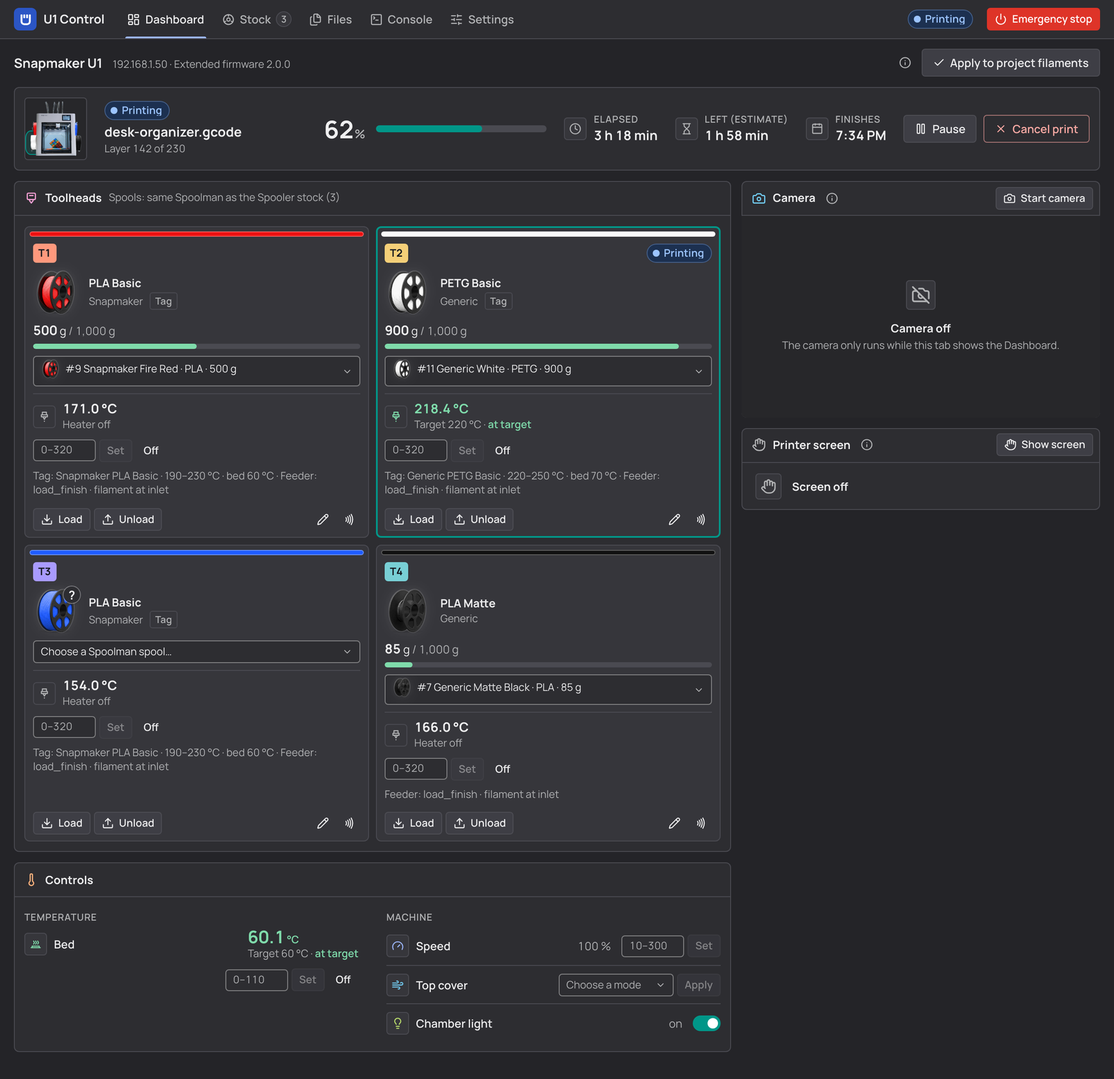
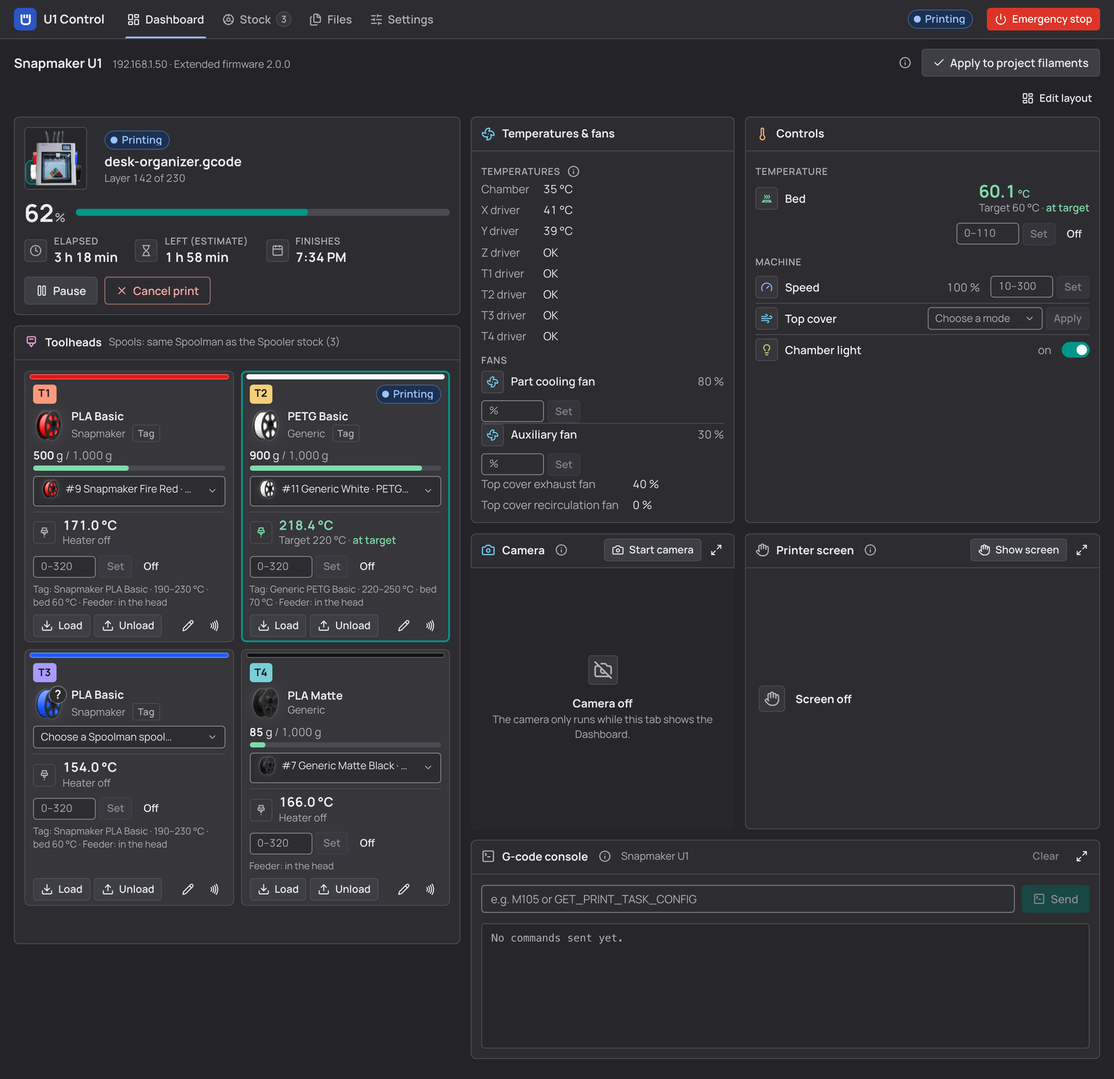
docs: refresh Orca Cloud listing and images, English only
Re-render the listing, README and social images from the current UI. The
dashboard pictures now show the Dashboard in its default layout instead of
a rearranged one. Only English images are exported from now on; the
Portuguese ones README.pt-BR.md shows stay as they are, and the unused
Portuguese main, square and social images are removed.

The Orca Cloud description is one English block that links to the README
for the full description, and release.md lists the English slots.

diff --git a/scripts/render_images.py b/scripts/render_images.py
@@ -9,7 +9,7 @@ What it does
   * Marketing artwork (assets/marketing/source/*.png, the native originals): scales each image to its listing
     size, finds the empty screenshot square from the pixels, renders the matching screen at exactly that size
     and pastes it inside the square's frame with the same rounded corners. Nothing else in the image changes.
-  * README screenshots: the dashboard and the print setup window, light and dark, English and Portuguese.
+  * README screenshots: the dashboard and the print setup window, light and dark, in English.
   * Writes assets/marketing/asset-manifest.json: every export with its source, operation, size, bytes and date.
   * Inlines Spooler's full-colour icon (../spooler/assets/spooler-icon.svg) into the Spooler integration
     SVGs and re-exports their PNGs. The other SVG diagrams are never changed.
@@ -66,23 +66,18 @@ SCROLL_TO = ('document.querySelector("main").style.paddingBottom="600px";'   # t
              'scrollTo(0,Math.round(scrollY));')
 CAMERA_ON = ('document.querySelector(\'[data-test="camera"]\').click();'      # start the camera, answer with the mock picture
              'setTimeout(()=>emit({type:"frame",image:DATA.frame}),50);setTimeout(()=>{%s},150);')
-# The camera above the controls, which keep their temperatures only: the whole picture and the whole panel fit the square.
-CAMERA_FIRST = ('const ctl=document.querySelector("#bed-h").closest(".oui-panel");ctl.before(document.querySelector("#cam-h").closest(".oui-panel"));'
-                'ctl.querySelectorAll(".oui-controls-group:not(:first-child)").forEach(e=>e.remove());'
-                'document.querySelector("#scr-h").closest(".oui-panel").remove();')
+# Then down just far enough that the whole camera picture is in view: in the default layout it sits under the fold.
+CAMERA_IN_VIEW = ('const r=document.querySelector("img.oui-camera-picture")?.getBoundingClientRect();'
+                  'if(r&&r.bottom>innerHeight-12)scrollTo(0,Math.round(scrollY+r.bottom-innerHeight+12));')
 # Nothing after the toolheads: the panel that follows would show its title and little else.
 HEADS_LAST = ('const hp=document.querySelector("#heads-h").closest(".oui-panel");document.querySelectorAll("main .oui-panel").forEach(p=>{'
               'if(hp.compareDocumentPosition(p)&Node.DOCUMENT_POSITION_FOLLOWING&&!hp.contains(p))p.remove();});')
 # The toolhead cards without their heater row, feeder line and buttons: the spools are what they show here.
 COMPACT_HEADS = 'document.querySelectorAll(".hc .oui-slot-extra>[data-heater-row],.hc .oui-slot-extra>p.oui-meta,.hc .oui-slot-actions").forEach(e=>e.remove());'
-# The main and hero images: the print card without the printer photo or its buttons, the four toolheads and their spools right under it
-# (without their spool pickers too, so both rows fit).
-REELS_UNDER_JOB = ('const job=document.querySelector(\'[data-test="job-card"]\');job.querySelectorAll(".oui-job-thumb,.oui-job-actions").forEach(e=>e.remove());job.querySelector(".oui-job-block")?.removeAttribute("data-thumb");'
-                   'job.after(document.querySelector("#heads-h").closest(".oui-panel"));' + COMPACT_HEADS
-                   + 'document.querySelectorAll(".hc .hc-pick").forEach(e=>e.remove());')
 SCREENS = {
-    "dash": dict(page="app", section="dash", width=640, spools=True, js=REELS_UNDER_JOB),
-    "camera": dict(page="app", section="dash", width=640, js=CAMERA_ON % (CAMERA_FIRST + SCROLL_TO % "#cam-h")),
+    # the Dashboard in its default layout, as it comes (two columns from GRID_WIDTH, else one in reading order)
+    "dash": dict(page="app", section="dash", width=640, spools=True),
+    "camera": dict(page="app", section="dash", width=640, spools=True, js=CAMERA_ON % CAMERA_IN_VIEW),
     "heads": dict(page="app", section="dash", width=640, spools=True, js=HEADS_LAST + SCROLL_TO % "#heads-h" + COMPACT_HEADS),   # all four fit the square
     "files": dict(page="app", section="files", width=880),
     "setup": dict(page="setup", width=900),                  # the window's own width: four filaments in one row, options and buttons under them
@@ -94,6 +89,7 @@ LANDSCAPE = (1600, 900)
 # Layout width in CSS px of the app page inside a marketing image: wide enough for the whole header line
 # ("Snapmaker U1 · 192.168.1.50 · Extended firmware 2.0.0"), narrow enough to keep the two-row header.
 CSS_WIDTHS = {"en": 740, "pt-BR": 760}      # wide squares: room for the whole firmware line in the header
+GRID_WIDTH = 1040                           # the landscape images: wide enough for the Dashboard's two columns (from 1000)
 CSS_WIDTH_SOCIAL = 760                      # the small square: wide layout too, so the header line fits and no button wraps
 FILES_WIDTH_PT = 960                        # the Files tab in Portuguese: its longer tab names need a wider one-row app bar
 USES = {"tile": "store tile and plugin table icon", "square": "Orca Cloud square image", "social": "GitHub social preview",
@@ -163,7 +159,11 @@ def printer_status(fakes, u1, tags=False):
         for i, (cur, tgt) in enumerate(((171, 0), (218.4, 220), (154, 0), (166, 0))):
             s[u1.EXTRUDERS[i]] = {"temperature": cur, "target": tgt}
         s["heater_bed"] = {"temperature": 60.1, "target": 60}
-        s["purifier"] = {"power_detected": True, "mode": "weak"}
+        s["purifier"] = {"power_detected": True, "mode": "weak", "exhaust_fan": {"speed": 0.4}, "inner_fan": {"speed": 0.0}}
+        s["fan"], s["fan_generic cavity_fan"] = {"speed": 0.8}, {"speed": 0.3}
+        s["temperature_sensor cavity"] = {"temperature": 34.6}
+        for name, obj in u1.DRIVERS:   # TMC2240 (X, Y) read their own temperature
+            s[obj] = {"drv_status": {}, **({"temperature": 41.0 if name == "X" else 39.0} if "2240" in obj else {})}
         s["filament_feed left"] = {"extruder0": {"channel_state": "load_finish", "filament_detected": True},
                                    "extruder1": {"channel_state": "load_finish", "filament_detected": True}}
         s["filament_feed right"] = {"extruder2": {"channel_state": "load_finish", "filament_detected": True},
@@ -196,6 +196,8 @@ def app_data(fakes, mods, scenario):
     finally:
         fp.close()
     view["bindings"] = {"0": 9, "1": 11, "3": 7} if scenario.get("spools") else {}
+    view["estimated_time"] = 18720   # the slicer's estimate of desk-organizer.gcode (FILES), read by the plugin from its metadata
+    view["left"] = u1.time_left(view)
     cfg = {**st.CONNECTION, **st.automagic_values(), "mode": "automagic", "host": "192.168.1.50",
            "spoolman_url": "http://192.168.1.10:7912", "spooler_hint_dismissed": False,
            "rfid_auto_sync": True, "prefs": {}, "printed_before": True}
@@ -436,7 +438,9 @@ def css_width_for(rel, screen, lang):
         return FILES_WIDTH_PT          # the one-row app bar cuts "Ajustes" and "Imprimindo" short below this
     if screen not in ("dash", "camera"):   # the setup window, toolheads and files keep their own layout widths
         return None
-    return CSS_WIDTH_SOCIAL if rel.startswith("social/") else CSS_WIDTHS[lang]
+    if rel.startswith("social/"):
+        return CSS_WIDTH_SOCIAL
+    return CSS_WIDTHS[lang] if "square" in rel else GRID_WIDTH
 
 
 def export_artwork(env, src):
@@ -466,7 +470,7 @@ def write_manifest(entries):
     """One record per export; a partial run keeps the records of the files it did not redo."""
     path = OUT / "marketing" / "asset-manifest.json"
     old = json.loads(path.read_text(encoding="utf-8"))["exports"] if path.exists() else []
-    merged = {e["file"]: e for e in old}
+    merged = {e["file"]: e for e in old if (ROOT / e["file"]).exists()}   # a file since deleted loses its record
     merged.update((e["file"], e) for e in entries)
     sources = [{"file": "assets/marketing/source/" + p.name, "bytes": p.stat().st_size, "sha256": hashlib.sha256(p.read_bytes()).hexdigest()}
                for p in sorted(SOURCE.glob("*.png"))]
@@ -534,9 +538,10 @@ def main(argv):
         name = "integration/u1control-works-with-spooler-" + theme
         if want and pick(name):
             export_integration(name)
-    sources = [p for p in sorted(SOURCE.glob("*.png")) if pick(artwork(p)[0])]
-    plain = [(n, s, v, theme, lang) for n, s, v in PLAIN for theme in ("light", "dark") for lang in ("en", "pt-BR")
-             if pick("readme/u1control-screenshot-%s-%s-%s.png" % (n, theme, lang))]
+    # English only: the Portuguese images are no longer exported (README.pt-BR.md keeps the last ones made)
+    sources = [p for p in sorted(SOURCE.glob("*.png")) if not p.stem.endswith("pt-BR") and pick(artwork(p)[0])]
+    plain = [(n, s, v, theme, "en") for n, s, v in PLAIN for theme in ("light", "dark")
+             if pick("readme/u1control-screenshot-%s-%s-en.png" % (n, theme))]
     if not sources and not plain:
         return
     with tempfile.TemporaryDirectory() as tmp:

diff --git a/docs/orca-cloud-description.md b/docs/orca-cloud-description.md
@@ -1,127 +1,49 @@
 # Orca Cloud description
 
-The text of the [U1 Control listing](https://cloud.orcaslicer.com/p/55b8c347d443). Paste the English block into the English description and the Portuguese block into the Portuguese one. Each block stays under Orca Cloud's 4000 characters. The images it embeds are served from `main`, so they show once this file's commit is merged. The listing's own images (tile, main, gallery) are in [release.md](release.md#orca-cloud-listing). Keep the plugin list in step with the README's "More plugins by bloodf" table.
-
-## English
+The text of the [U1 Control listing](https://cloud.orcaslicer.com/p/55b8c347d443), in English only: paste the block into the listing's description. It stays well under Orca Cloud's 4000 characters and links to the README for everything else. The images it embeds are served from `main`, so they show once this file's commit is merged. The listing's own images (tile, main, gallery) are in [release.md](release.md#orca-cloud-listing). Keep the plugin list in step with the README's "More plugins by bloodf" table.
 
 ```markdown
 Run the Snapmaker U1 from OrcaSlicer: toolheads, camera, files.
 
-## What you need
-
-- OrcaSlicer 2.5.0 or newer
-- A Snapmaker U1 on the same network, with the stock firmware or the U1 Extended Firmware
-- Spoolman, only if you want a spool per toolhead
+Full description: https://github.com/bloodf/u1control/blob/main/README.md
 
 ## What it does
 
-When you press **Print**, each filament is matched to one of the four toolheads and the U1 G-code is fixed, the way Snapmaker Orca does.
-
 ![The U1 print setup window: four filaments matched to the toolheads T1 to T4](https://raw.githubusercontent.com/bloodf/u1control/main/assets/orca-cloud/u1control-feature-01-setup-en.png){align=center}
 
-The Dashboard shows status, temperatures and the camera, with pause, resume, cancel and emergency stop.
+**Print setup.** On Print, each filament is matched to a toolhead and the U1 G-code is fixed, as Snapmaker Orca does. A nozzle mismatch (Standard vs High Flow) is a warning you confirm.
 
-![The Dashboard: bed temperature, speed, top cover, chamber light and the camera picture](https://raw.githubusercontent.com/bloodf/u1control/main/assets/orca-cloud/u1control-feature-02-dashboard-en.png){align=center}
+![The Dashboard in its default layout: the print, the toolheads, temperatures, controls, camera and printer screen](https://raw.githubusercontent.com/bloodf/u1control/main/assets/orca-cloud/u1control-feature-02-dashboard-en.png){align=center}
 
-Each toolhead shows its filament, its RFID tag and its Spoolman spool with the grams left.
+**Dashboard.** Print, temperatures, fans, controls, camera, printer screen and console, in a layout you can rearrange. Bed, nozzle, fans and Home also work from OrcaSlicer's Device tab.
 
-![Toolheads T1 and T2 with filament, RFID tag and Spoolman spool](https://raw.githubusercontent.com/bloodf/u1control/main/assets/orca-cloud/u1control-feature-03-filament-en.png){align=center}
+![The toolheads T1 to T4 with filament, RFID tag, Spoolman spool and grams left](https://raw.githubusercontent.com/bloodf/u1control/main/assets/orca-cloud/u1control-feature-03-filament-en.png){align=center}
 
-Files on the printer can be printed, renamed, moved and deleted, and time-lapse videos saved to your computer.
+**Toolheads and spools.** Filament, RFID tag, Spoolman spool, the preset each head gets (change it if you like) and pressure advance saved per spool. Open Filament Database presets are opt-in.
 
 ![The Files page: folders, print files and the time-lapse list](https://raw.githubusercontent.com/bloodf/u1control/main/assets/orca-cloud/u1control-feature-04-files-en.png){align=center}
 
-Automagic mode runs every step it can by itself and asks only when a choice is needed. Expert mode turns each step into a setting.
+**Files.** Print, rename, move and delete files, and save time-lapse videos.
+
+Works with the stock firmware and the U1 Extended Firmware. With [multiACE](https://github.com/decay71/multiACE), U1 Control leaves routing to it and shows the ACE units.
 
 ## How to start
 
-1. Subscribe, open OrcaSlicer's **Plugins** dialog, click **Refresh** and tick **Activate**. Allow the background thread. Where the dialog is: macOS, **File > Plugins** in the menu bar; Windows and Linux, the small **▾** arrow next to **File** at the top left of the window, then **Plugins** (not inside the File menu).
-2. Select your Snapmaker U1 printer and enter its IP address (the Wi-Fi icon next to the printer name). Without it OrcaSlicer offers only **Export G-code**. The **U1 Control** tab appears next to Prepare and Preview.
-3. Automagic adds **U1 print setup** to your U1 process preset. Save the preset, slice and press **Print**.
+1. Subscribe, open the plugin list (macOS: File > Plugins; Windows/Linux: ▾ next to File > Plugins) and tick Activate on U1 Control. Allow the background thread.
+2. Select your Snapmaker U1 printer preset and enter its IP address (the Wi-Fi icon next to the printer name). The U1 Control tab appears next to Prepare and Preview.
+3. Automagic mode adds U1 print setup to your U1 process preset. Save the preset, slice and press Print.
+
+Needs OrcaSlicer 2.5.0 or newer. Spoolman is optional.
 
 ## Privacy
 
-U1 Control talks only to your printer and, if you set one up, your Spoolman server, on your local network. It has no cloud service and sends nothing to the internet. Deleting files, loading or unloading filament, calibration and emergency stop ask first.
+Talks only to your printer and your Spoolman server, on your local network; the Open Filament Database only if you turn it on. No cloud, no telemetry. Deleting, filament moves, calibration and emergency stop ask first.
 
-Independent project, not made or supported by Snapmaker.
-
-## Languages
-
-English, Brazilian Portuguese, Spanish, German, Simplified Chinese, Polish and Czech.
+Independent project, not made or supported by Snapmaker. English, Português, Español, Deutsch, 简体中文, Polski, Čeština.
 
 ## More plugins by bloodf
 
-- [Organizer](https://cloud.orcaslicer.com/p/5bf381fd42d4): Arrange parts by their real outline and fill a plate with more copies.
-- [Embedder](https://cloud.orcaslicer.com/p/58222d4f9e52): Magnet and NFC pockets, with the pause at the right layer.
-- [Print Calculator](https://cloud.orcaslicer.com/p/521c07cf6de2): Price every plate: filament, energy, labour, fees and margin.
-- [Spooler](https://cloud.orcaslicer.com/p/50c35dcbd6f3): Your Spoolman stock inside OrcaSlicer, with what is left on each spool.
-- [Kobra Control](https://cloud.orcaslicer.com/p/59c786285255): Run the Anycubic Kobra X from OrcaSlicer over your LAN.
+[Organizer](https://cloud.orcaslicer.com/p/5bf381fd42d4) · [Embedder](https://cloud.orcaslicer.com/p/58222d4f9e52) · [Print Calculator](https://cloud.orcaslicer.com/p/521c07cf6de2) · [Spooler](https://cloud.orcaslicer.com/p/50c35dcbd6f3) · [Kobra Control](https://cloud.orcaslicer.com/p/59c786285255)
 
-Each plugin works on its own; installed together they share data where it helps.
-
-## Source code
-
-[github.com/bloodf/u1control](https://github.com/bloodf/u1control) · GPL-3.0-only · by bloodf
-```
-
-## Português (Brasil)
-
-```markdown
-Controle a Snapmaker U1 pelo OrcaSlicer: cabeças, câmera, arquivos.
-
-## O que você precisa
-
-- OrcaSlicer 2.5.0 ou mais novo
-- Uma Snapmaker U1 na mesma rede, com o firmware original ou o U1 Extended Firmware
-- Spoolman, só se você quiser uma bobina por cabeça
-
-## O que faz
-
-Quando você aperta **Imprimir**, cada filamento é relacionado a uma das quatro cabeças e o G-code da U1 é corrigido, como o Snapmaker Orca faz.
-
-![A janela Preparar impressão na U1: quatro filamentos relacionados às cabeças T1 a T4](https://raw.githubusercontent.com/bloodf/u1control/main/assets/orca-cloud/u1control-feature-01-setup-pt-BR.png){align=center}
-
-O Painel mostra o status, as temperaturas e a câmera, com pausar, retomar, cancelar e parada de emergência.
-
-![O Painel: temperatura da mesa, velocidade, tampa superior, luz da câmera e a imagem da câmera](https://raw.githubusercontent.com/bloodf/u1control/main/assets/orca-cloud/u1control-feature-02-dashboard-pt-BR.png){align=center}
-
-Cada cabeça mostra o filamento, a etiqueta RFID e a bobina do Spoolman com as gramas restantes.
-
-![As cabeças T1 e T2 com filamento, etiqueta RFID e bobina do Spoolman](https://raw.githubusercontent.com/bloodf/u1control/main/assets/orca-cloud/u1control-feature-03-filament-pt-BR.png){align=center}
-
-Os arquivos da impressora podem ser impressos, renomeados, movidos e apagados, e os vídeos de timelapse salvos no computador.
-
-![A página Arquivos: pastas, arquivos de impressão e a lista de timelapses](https://raw.githubusercontent.com/bloodf/u1control/main/assets/orca-cloud/u1control-feature-04-files-pt-BR.png){align=center}
-
-O modo Automágico roda sozinho tudo o que pode e só pergunta quando é preciso escolher. O modo Especialista transforma cada etapa em um ajuste.
-
-## Como começar
-
-1. Assine, abra a janela **Plugins** do OrcaSlicer, clique em **Refresh** e marque **Activate**. Permita a thread em segundo plano. Onde fica a janela: no macOS, **File > Plugins** na barra de menus; no Windows e no Linux, a pequena seta **▾** ao lado de **File**, no canto superior esquerdo da janela, e depois **Plugins** (não fica dentro do menu File).
-2. Selecione a sua Snapmaker U1 e informe o endereço IP dela (o ícone de Wi-Fi ao lado do nome da impressora). Sem ele o OrcaSlicer só oferece **Exportar G-code**. A aba **U1 Control** aparece ao lado de Prepare e Preview.
-3. O Automágico acrescenta **U1 print setup** ao seu perfil de processo da U1. Salve o perfil, fatie e aperte **Imprimir**.
-
-## Privacidade
-
-O U1 Control fala só com a sua impressora e, se você configurar, com o seu servidor Spoolman, na sua rede local. Não tem serviço de nuvem e não envia nada para a internet. Apagar arquivos, carregar ou descarregar filamento, calibrar e a parada de emergência sempre perguntam antes.
-
-Projeto independente, não é feito nem suportado pela Snapmaker.
-
-## Idiomas
-
-Inglês, português do Brasil, espanhol, alemão, chinês simplificado, polonês e tcheco.
-
-## Mais plugins do bloodf
-
-- [Organizer](https://cloud.orcaslicer.com/p/5bf381fd42d4): Organize as peças pelo contorno real e encha a mesa com mais cópias.
-- [Embedder](https://cloud.orcaslicer.com/p/58222d4f9e52): Bolsos para ímãs e NFC, com a pausa na camada certa.
-- [Print Calculator](https://cloud.orcaslicer.com/p/521c07cf6de2): Preço de cada mesa: filamento, energia, mão de obra, taxas e margem.
-- [Spooler](https://cloud.orcaslicer.com/p/50c35dcbd6f3): Seu estoque do Spoolman dentro do OrcaSlicer, com o que resta em cada bobina.
-- [Kobra Control](https://cloud.orcaslicer.com/p/59c786285255): Controle a Anycubic Kobra X pelo OrcaSlicer na sua rede.
-
-Cada plugin funciona sozinho; instalados juntos, compartilham dados onde ajuda.
-
-## Código-fonte
-
-[github.com/bloodf/u1control](https://github.com/bloodf/u1control) · GPL-3.0-only · by bloodf
+Source: https://github.com/bloodf/u1control (GPL-3.0-only)
 ```

diff --git a/README.md b/README.md
@@ -59,8 +59,8 @@ From a file:
       <p><b>Print setup</b><br>Each filament is matched to a toolhead by material and colour before the file leaves OrcaSlicer.</p>
     </td>
     <td width="50%" valign="top">
-      <img src="assets/orca-cloud/u1control-feature-02-dashboard-en.png" alt="The Dashboard: the camera picture with the bed temperature under it" width="100%">
-      <p><b>Dashboard</b><br>Status, temperatures, camera, pause, resume, cancel and emergency stop on one page.</p>
+      <img src="assets/orca-cloud/u1control-feature-02-dashboard-en.png" alt="The Dashboard in its default layout: the print and toolheads, temperatures and fans, controls, camera and printer screen" width="100%">
+      <p><b>Dashboard</b><br>Status, temperatures and fans, controls, camera, printer screen, pause, resume, cancel and emergency stop, in a layout you can rearrange.</p>
     </td>
   </tr>
   <tr>
@@ -80,13 +80,15 @@ From a file:
 | Time-lapses | The Files page lists every video the U1 recorded, newest first, with its cover picture, the print name, date and size. **Save** copies a video to `Downloads/u1control`; **Delete** asks first, then removes the video and its covers from the printer. Both work while it prints. |
 | Print options | Auto bed levelling, flow calibration and time-lapse, sent with the commands Snapmaker Orca uses. Auto-refill, tangle detection, unload when done and light off when done when the firmware offers them. |
 | G-code fixes | Seven fixes on every U1 slice: top-cover line, chamber wait, whole-bed 11×11 mesh, part fan off while probing, tool-change lift in print-by-object, real layer count and file colours. Each one can be turned off in Expert mode. |
-| Printer agent | U1 Control can be the U1's printer agent, so OrcaSlicer's own Print dialog and Device tab work with the U1. |
+| Printer agent | U1 Control can be the U1's printer agent, so OrcaSlicer's own Print dialog and Device tab work with the U1. From the Device tab you can also set the bed and nozzle temperatures, the part and aux fans, and Home (Home and fans only while the U1 is idle). |
+| Filament presets | Each toolhead card shows the OrcaSlicer preset **Apply to project filaments** gives it, with a score and the reasons. **Change** picks another one and remembers it for that spool, tag or filament (`matches.json`, shared with Spooler and Kobra Control). Turn on **Open Filament Database** in Settings > Connection to also offer its community presets (off by default; nothing is fetched while it is off). |
 | RFID | Snapmaker tags on both firmwares. OpenRFID, OpenSpool, NTAG and external readers with the Extended Firmware. |
 | Spoolman | A spool list with colour, brand, material and grams left. Filament use is recorded once per print: by U1 Control on the stock firmware, by the printer on the Extended Firmware ([what is covered](docs/spooler-contract.md#filament-use)). |
 | Remote Screen | With the Extended Firmware, the printer's touchscreen is on the Dashboard, live, and you can tap it. |
 | Power-loss recovery | Resume or discard a print interrupted by a power cut, and see the printer's error list. |
 | Console | A Dashboard widget: send G-code and read the printer's replies. `M112` runs the emergency stop. |
 | Your dashboard | **Edit layout** on the Dashboard: drag widgets to move them, drag their edges or corners to resize them, remove them, add them from the list, and set the ones that have settings (camera shape, console lines, which readings show). Keep several named layouts and switch between them. Layouts are saved in U1 Control's settings. |
+| Theme | Settings > Language > **Theme**: Automatic (follows OrcaSlicer), Light or Dark. |
 | Settings | Bed mesh, input shaper and flow calibration, the Extended Firmware's settings, restart Klipper, restart Moonraker and reboot. |
 | Plugins > Run | **Check U1 connection**, **Sync U1 toolheads to project filaments** and **Apply Snapmaker Orca U1 process tuning**. |
 | Nozzles and pressure advance | The print setup warns when a filament was sliced for a Standard nozzle and goes to a High Flow one, or the other way round (firmware 1.6.0+). Save a toolhead's pressure advance to its Spoolman spool and apply it at print start when you choose to. |
@@ -220,7 +222,7 @@ English, Brazilian Portuguese, Spanish, German, Simplified Chinese, Polish and C
 | <img src="https://raw.githubusercontent.com/bloodf/embedder/main/assets/orca-cloud/embedder-tile.png" alt="Embedder icon" width="40"> | 🧲 [Embedder](https://github.com/bloodf/embedder) | Magnet and NFC pockets, with the pause at the right layer. | [Install](https://cloud.orcaslicer.com/p/58222d4f9e52) |
 | <img src="https://raw.githubusercontent.com/bloodf/orca_print_calculator/main/assets/orca-cloud/orca_print_calculator-tile.png" alt="Print Calculator icon" width="40"> | 💰 [Print Calculator](https://github.com/bloodf/orca_print_calculator) | Price every plate: filament, energy, labour, fees and margin. | [Install](https://cloud.orcaslicer.com/p/521c07cf6de2) |
 | <img src="https://raw.githubusercontent.com/bloodf/spooler/main/assets/orca-cloud/spooler-tile.png" alt="Spooler icon" width="40"> | 🧵 [Spooler](https://github.com/bloodf/spooler) | Your Spoolman stock inside OrcaSlicer, with what is left on each spool. | [Install](https://cloud.orcaslicer.com/p/50c35dcbd6f3) |
-| <img src="https://raw.githubusercontent.com/bloodf/kobracontrol/main/assets/orca-cloud/kobracontrol-tile.png" alt="Kobra Control icon" width="40"> | 🟣 [Kobra Control](https://github.com/bloodf/kobracontrol) | Run the Anycubic Kobra X from OrcaSlicer over your LAN. | [Install](https://cloud.orcaslicer.com/p/59c786285255) |
+| <img src="https://raw.githubusercontent.com/bloodf/kobracontrol/main/assets/orca-cloud/kobracontrol-tile.png" alt="Kobra Control icon" width="40"> | 🟣 [Kobra Control](https://github.com/bloodf/kobracontrol) | Run your Anycubic printer from OrcaSlicer, over your LAN or Anycubic Cloud. | [Install](https://cloud.orcaslicer.com/p/59c786285255) |
 | <img src="assets/orca-cloud/u1control-tile.png" alt="U1 Control icon" width="40"> | 🔵 **U1 Control** · you are here | Run the Snapmaker U1 from OrcaSlicer: toolheads, camera, files. | |
 
 Each plugin works on its own; installed together they share data where it helps.

diff --git a/docs/release.md b/docs/release.md
@@ -53,24 +53,26 @@ GitHub": `on: release: types: [published]`, `id-token: write`, audience `orcaclo
 ## Orca Cloud listing
 
 The workflow publishes the wheel and the changelog only. The listing's text and images are set by hand on Orca
-Cloud (Edit plugin), and change when the artwork or the page changes, not with every release.
+Cloud (Edit plugin), and change when the artwork or the page changes, not with every release. The listing is in
+English only; README.md is the full description it links to.
 
-| Slot | English | Portuguese | Size |
-|---|---|---|---|
-| Tile | `assets/orca-cloud/u1control-tile.png` | the same file | 512×512 |
-| Main image | `assets/orca-cloud/u1control-main-en.png` | `u1control-main-pt-BR.png` | 1600×900 |
-| Square image | `assets/orca-cloud/u1control-main-square-en.png` | `u1control-main-square-pt-BR.png` | 900×900 |
-| Gallery 1, print setup | `assets/orca-cloud/u1control-feature-01-setup-en.png` | `u1control-feature-01-setup-pt-BR.png` | 1600×900 |
-| Gallery 2, dashboard | `assets/orca-cloud/u1control-feature-02-dashboard-en.png` | `u1control-feature-02-dashboard-pt-BR.png` | 1600×900 |
-| Gallery 3, toolheads and spools | `assets/orca-cloud/u1control-feature-03-filament-en.png` | `u1control-feature-03-filament-pt-BR.png` | 1600×900 |
-| Gallery 4, files | `assets/orca-cloud/u1control-feature-04-files-en.png` | `u1control-feature-04-files-pt-BR.png` | 1600×900 |
-| Description | [orca-cloud-description.md](orca-cloud-description.md), English block | Portuguese block | under 4000 characters each |
-| GitHub social preview | `assets/social/u1control-social-preview-en.png` | `u1control-social-preview-pt-BR.png` | 1280×640 |
+| Slot | File | Size |
+|---|---|---|
+| Tile | `assets/orca-cloud/u1control-tile.png` | 512×512 |
+| Main image | `assets/orca-cloud/u1control-main-en.png` | 1600×900 |
+| Square image | `assets/orca-cloud/u1control-main-square-en.png` | 900×900 |
+| Gallery 1, print setup | `assets/orca-cloud/u1control-feature-01-setup-en.png` | 1600×900 |
+| Gallery 2, dashboard | `assets/orca-cloud/u1control-feature-02-dashboard-en.png` | 1600×900 |
+| Gallery 3, toolheads and spools | `assets/orca-cloud/u1control-feature-03-filament-en.png` | 1600×900 |
+| Gallery 4, files | `assets/orca-cloud/u1control-feature-04-files-en.png` | 1600×900 |
+| Description | [orca-cloud-description.md](orca-cloud-description.md) | under 4000 characters |
+| GitHub social preview | `assets/social/u1control-social-preview-en.png` | 1280×640 |
 
-Every image is a PNG under Orca Cloud's 2 MB limit; the largest is about 1.2 MB. The GitHub social preview is
-set under the repository's Settings > Social preview. `assets/marketing/asset-manifest.json` lists each file with
-its source, size, bytes and hash, and `python3 scripts/render_images.py` makes them again (see
-[CONTRIBUTING.md](../CONTRIBUTING.md#assets)).
+Every image is a PNG under Orca Cloud's 2 MB limit; the largest is about 1.2 MB. The dashboard images show the
+Dashboard in its default layout. The GitHub social preview is set under the repository's Settings > Social preview.
+`assets/marketing/asset-manifest.json` lists each file with its source, size, bytes and hash, and
+`python3 scripts/render_images.py` makes them again, in English (see [CONTRIBUTING.md](../CONTRIBUTING.md#assets)).
+The Portuguese gallery, hero and README images that README.pt-BR.md shows are no longer re-rendered.
 
 ## Local gates
 

diff --git a/README.pt-BR.md b/README.pt-BR.md
@@ -220,7 +220,7 @@ Inglês, português do Brasil, espanhol, alemão, chinês simplificado, polonês
 | <img src="https://raw.githubusercontent.com/bloodf/embedder/main/assets/orca-cloud/embedder-tile.png" alt="Ícone do Embedder" width="40"> | 🧲 [Embedder](https://github.com/bloodf/embedder) | Bolsos para ímãs e NFC, com a pausa na camada certa. | [Instalar](https://cloud.orcaslicer.com/p/58222d4f9e52) |
 | <img src="https://raw.githubusercontent.com/bloodf/orca_print_calculator/main/assets/orca-cloud/orca_print_calculator-tile.png" alt="Ícone do Print Calculator" width="40"> | 💰 [Print Calculator](https://github.com/bloodf/orca_print_calculator) | Preço de cada mesa: filamento, energia, mão de obra, taxas e margem. | [Instalar](https://cloud.orcaslicer.com/p/521c07cf6de2) |
 | <img src="https://raw.githubusercontent.com/bloodf/spooler/main/assets/orca-cloud/spooler-tile.png" alt="Ícone do Spooler" width="40"> | 🧵 [Spooler](https://github.com/bloodf/spooler) | Seu estoque do Spoolman dentro do OrcaSlicer, com o que resta em cada bobina. | [Instalar](https://cloud.orcaslicer.com/p/50c35dcbd6f3) |
-| <img src="https://raw.githubusercontent.com/bloodf/kobracontrol/main/assets/orca-cloud/kobracontrol-tile.png" alt="Ícone do Kobra Control" width="40"> | 🟣 [Kobra Control](https://github.com/bloodf/kobracontrol) | Controle a Anycubic Kobra X pelo OrcaSlicer na sua rede. | [Instalar](https://cloud.orcaslicer.com/p/59c786285255) |
+| <img src="https://raw.githubusercontent.com/bloodf/kobracontrol/main/assets/orca-cloud/kobracontrol-tile.png" alt="Ícone do Kobra Control" width="40"> | 🟣 [Kobra Control](https://github.com/bloodf/kobracontrol) | Controle sua impressora Anycubic pelo OrcaSlicer, na rede local ou pela Anycubic Cloud. | [Instalar](https://cloud.orcaslicer.com/p/59c786285255) |
 | <img src="assets/orca-cloud/u1control-tile.png" alt="Ícone do U1 Control" width="40"> | 🔵 **U1 Control** · você está aqui | Controle a Snapmaker U1 pelo OrcaSlicer: cabeças, câmera, arquivos. | |
 
 Cada plugin funciona sozinho; instalados juntos, compartilham dados onde ajuda.
